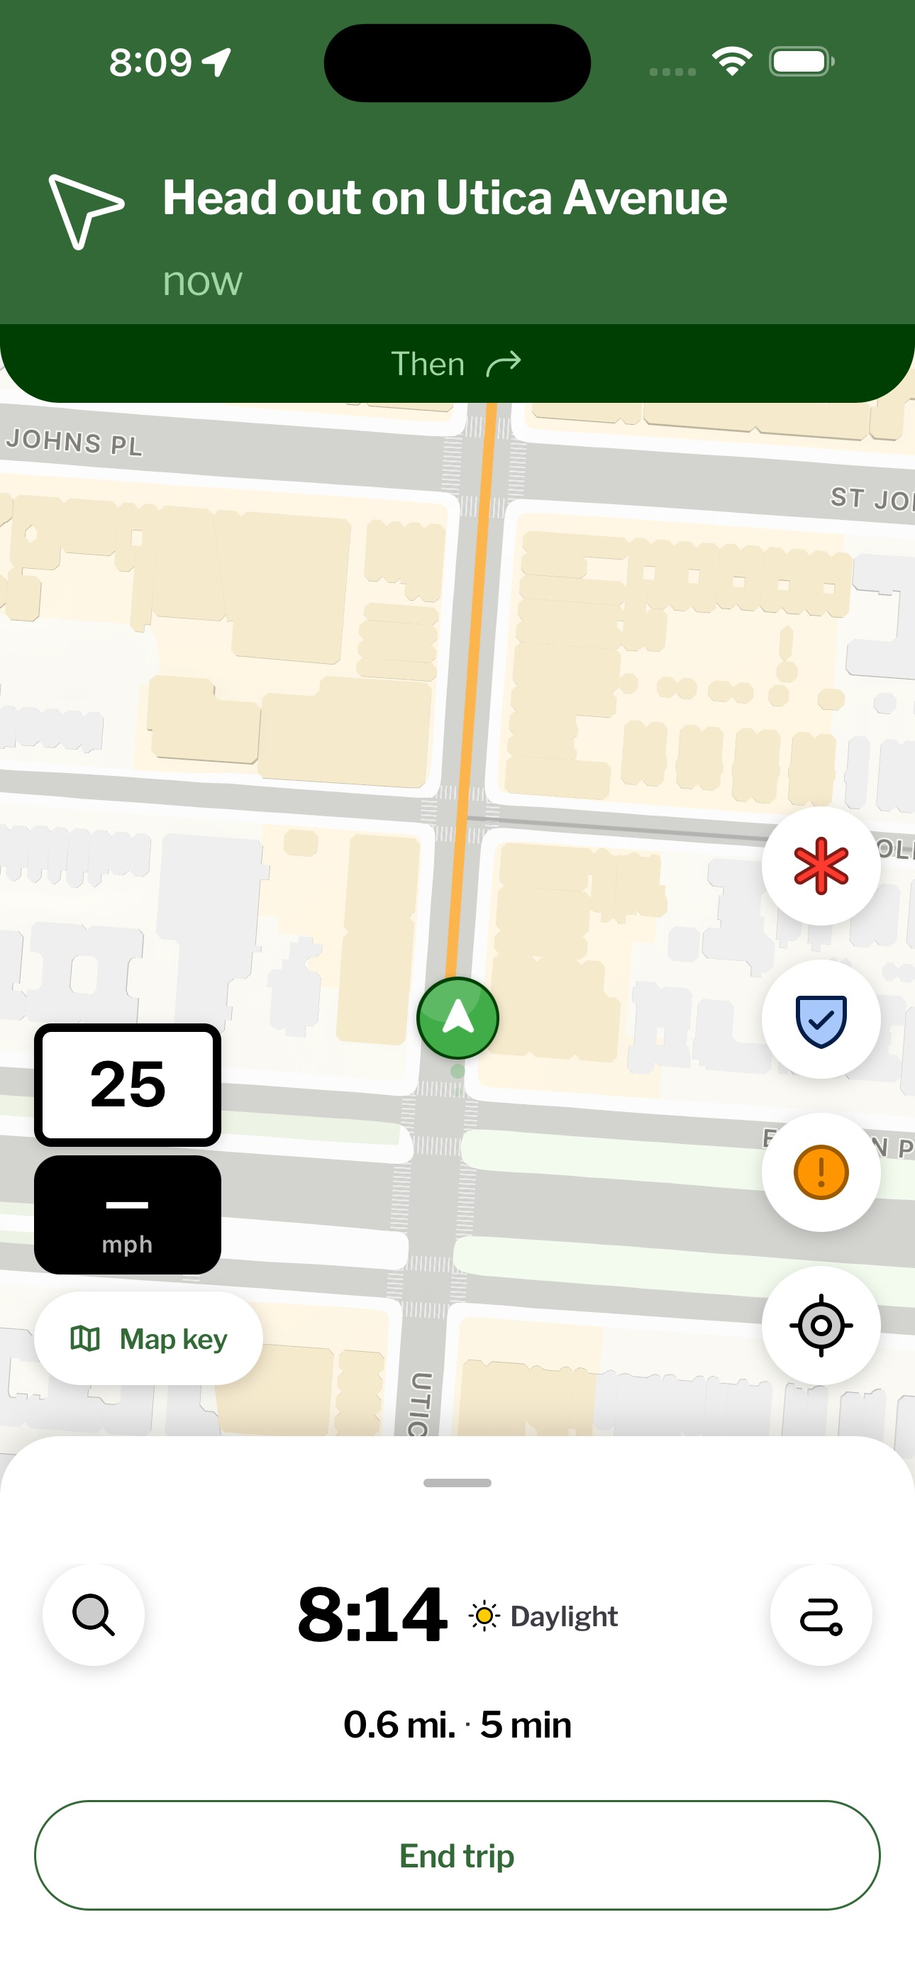
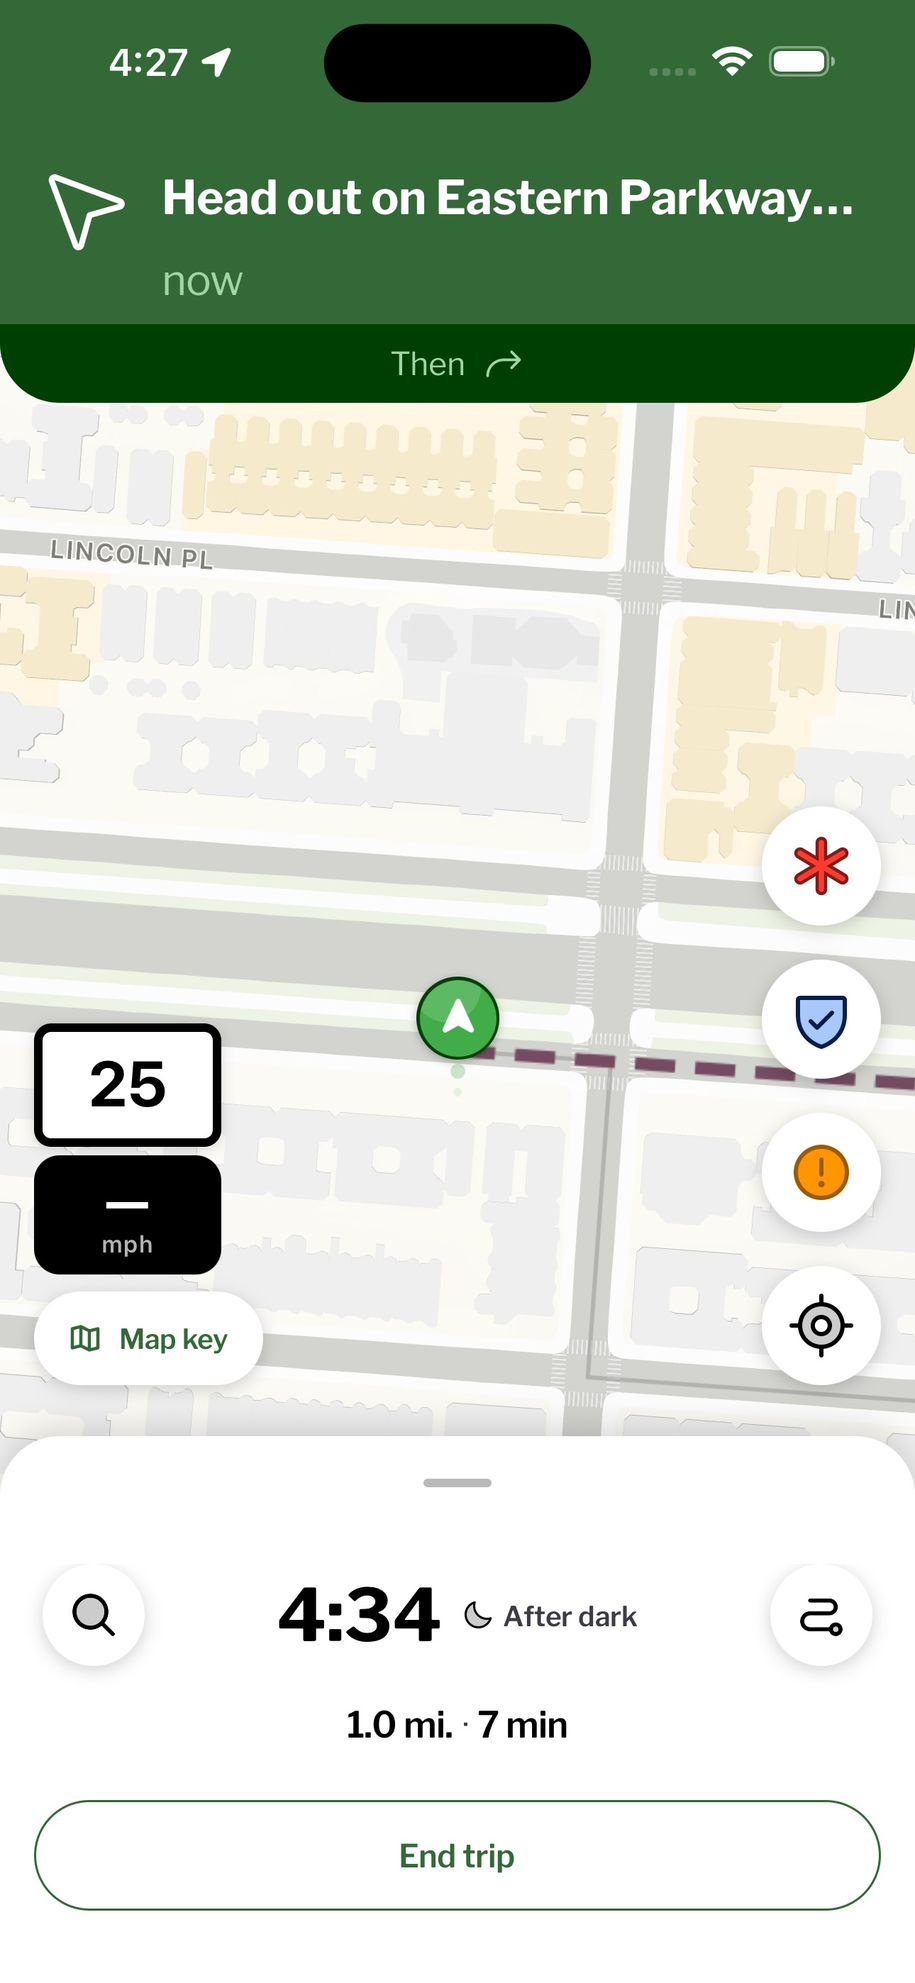
Lead the Weeksville comparison with dusk and restore the fullscreen cursor

diff --git a/src/components/fresh-greens/captured-route-comparison.tsx b/src/components/fresh-greens/captured-route-comparison.tsx
@@ -1,29 +1,35 @@
 "use client";
 
 import Image from "next/image";
-import { useState } from "react";
 import styles from "./captured-route-comparison.module.css";
 
 const captureDirectory = "/projects/fresh-greens/route-comparison";
 
 // Control centers are measured on the native 430 × 932 point screen.
-const routes = [
-  { via: "Utica Avenue", details: "Five minutes, 0.6 miles. Arrive at 8:12 AM, daylight. One road condition.", arrow: [142, 645], closeY: 579 },
-  { via: "Saint Johns Place", details: "Five minutes, 0.6 miles. Arrive at 8:13 AM, daylight. All clear.", arrow: [46, 684], closeY: 617 },
+export const routes = [
+  { via: "Rochester Avenue", arrival: "4:34 PM", light: "After dark", minutes: 7, arrow: [142, 646], closeY: 579 },
+  { via: "Rochester Avenue", arrival: "4:33 PM", light: "Dusk", minutes: 6, arrow: [46, 646], closeY: 579 },
 ] as const;
 
-type Props = { onBrowse: () => void; onSearch: () => void };
+export type RouteIndex = 0 | 1;
 
-export function CapturedRouteComparison({ onBrowse, onSearch }: Props) {
-  const [index, setIndex] = useState<0 | 1>(0);
-  const [driving, setDriving] = useState(false);
+type Props = {
+  index: RouteIndex;
+  driving: boolean;
+  onSelect: (index: RouteIndex) => void;
+  onToggleTrip: () => void;
+  onBrowse: () => void;
+  onSearch: () => void;
+};
+
+export function CapturedRouteComparison({ index, driving, onSelect, onToggleTrip, onBrowse, onSearch }: Props) {
   const route = routes[index];
 
   return (
     <div className={styles.phone} role="group" aria-label="Two routes captured in Fresh Greens on iPhone">
-      {routes.map((capture, position) => (
+      {routes.map((_, position) => (
         <Image
-          key={capture.via}
+          key={position}
           className={styles.capture}
           aria-hidden={position !== index}
           src={captureDirectory + "/ios-" + (driving ? "drive-" : "route-") + (position + 1) + ".jpg"}
@@ -31,7 +37,7 @@ export function CapturedRouteComparison({ onBrowse, onSearch }: Props) {
           height={2796}
           unoptimized
           loading="eager"
-          alt={position === index ? (driving ? "Fresh Greens giving the first turn toward Weeksville Heritage Center." : "Fresh Greens showing the selected route to Weeksville Heritage Center on its iPhone map.") : ""}
+          alt={position === index ? (driving ? "Fresh Greens giving the first turn toward Weeksville Heritage Center." : "The blue location dot marks the start on Eastern Parkway Service Road. The checkered pin marks Weeksville Heritage Center.") : ""}
         />
       ))}
       {!driving && <>
@@ -40,20 +46,20 @@ export function CapturedRouteComparison({ onBrowse, onSearch }: Props) {
           aria-label={index === 0 ? "Next route" : "Previous route"}
           className={styles.arrow}
           style={{ left: (100 * route.arrow[0] / 430) + "%", top: (100 * route.arrow[1] / 932) + "%" }}
-          onClick={() => setIndex(index === 0 ? 1 : 0)}
+          onClick={() => onSelect(index === 0 ? 1 : 0)}
           onKeyDown={event => {
             if (event.key !== "ArrowLeft" && event.key !== "ArrowRight") return;
             event.preventDefault();
-            setIndex(event.key === "ArrowLeft" ? 0 : 1);
+            onSelect(event.key === "ArrowLeft" ? 0 : 1);
           }}
         />
         <button type="button" className={styles.search} aria-label="Search destinations" onClick={onSearch} />
         <button type="button" className={styles.arrow} style={{ left: "89.2%", top: (100 * route.closeY / 932) + "%" }} aria-label="Close route and browse recommendations" onClick={onBrowse} />
       </>}
-      <button type="button" className={styles.trip} data-driving={driving} onClick={() => setDriving(!driving)}
+      <button type="button" className={styles.trip} data-driving={driving} onClick={onToggleTrip}
         aria-label={driving ? "End trip" : "Go, start route via " + route.via} />
       <span className="sr-only" role="status" aria-atomic="true">
-        {driving ? "Driving to Weeksville via " + route.via + ". Head out on Utica Avenue." : "Route " + (index + 1) + " of 2. Via " + route.via + ". " + route.details}
+        {driving ? "Driving to Weeksville via " + route.via + ". Head out on Eastern Parkway Service Road." : "Route " + (index + 1) + " of 2. Via " + route.via + ". " + route.minutes + " minutes, 1 mile. One reported road condition. Arrive at " + route.arrival + ", " + route.light + "."}
       </span>
     </div>
   );

diff --git a/src/components/fresh-greens/early-product-walkthrough.tsx b/src/components/fresh-greens/early-product-walkthrough.tsx
@@ -2,17 +2,25 @@
 
 import { useRef, useState } from "react";
 import { flushSync } from "react-dom";
-import { CapturedRouteComparison } from "./captured-route-comparison";
+import { CapturedRouteComparison, routes, type RouteIndex } from "./captured-route-comparison";
 import { CapturedHomeSheet } from "./captured-home-sheet";
 import styles from "./early-product-walkthrough.module.css";
 
 export function EarlyProductWalkthrough() {
   const [expanded, setExpanded] = useState(false);
   const [screen, setScreen] = useState<"routes" | "browse" | "search">("routes");
+  const [routeIndex, setRouteIndex] = useState<RouteIndex>(1);
+  const [driving, setDriving] = useState(false);
+  function selectRoute(index: RouteIndex) {
+    setRouteIndex(index);
+    setDriving(false);
+  }
+
   const phone = useRef<HTMLDivElement>(null);
   const browsing = screen !== "routes";
   function switchScreen(next: typeof screen) {
     setScreen(next);
+    setDriving(false);
     if (next === "search") return;
     requestAnimationFrame(() => phone.current?.querySelector<HTMLButtonElement>("button")?.focus({ preventScroll: true }));
   }
@@ -48,7 +56,17 @@ export function EarlyProductWalkthrough() {
       <header className={styles.header}>
         <p className={styles.kicker}>From the iOS app</p>
         <h3 id="fg-route-screen-title">{browsing ? "Browse recommendations" : "Compare two routes to Weeksville"}</h3>
-        <p>{browsing ? "Open the home sheet and choose a category to see the app’s sample places. Search for Weeksville to compare routes." : "Use the arrows to compare streets and road conditions. Select Go to see the first turn on your chosen route."}</p>
+        <p>{browsing ? "Open the home sheet and choose a category to see the app’s sample places. Search for Weeksville to compare routes." : "Leave Crown Heights at 4:27 PM. Both routes reach Weeksville via Rochester Avenue. Compare the light on arrival, then select Go to see the first turn."}</p>
+        {!browsing && <div className={styles.choices} role="group" aria-label="Choose a route to Weeksville">
+          {([1, 0] as const).map(index => (
+            <button key={index} type="button" aria-pressed={routeIndex === index}
+              onClick={() => selectRoute(index)}>
+              <span>{routes[index].light}</span>
+              <span>{routes[index].arrival}</span>
+              <small>Route {index + 1} · {routes[index].minutes} min</small>
+            </button>
+          ))}
+        </div>}
         <div className={styles.actions}>
           <button type="button" ref={expandButton} className={styles.control} onClick={expand} aria-haspopup="dialog">{browsing ? "Enlarge home sheet" : "Enlarge route comparison"}</button>
           {browseControl()}
@@ -62,7 +80,7 @@ export function EarlyProductWalkthrough() {
           <div ref={phone} className={styles.capture}>
             {browsing
               ? <CapturedHomeSheet initialSearch={screen === "search"} onCompareWeeksville={() => switchScreen("routes")} />
-              : <CapturedRouteComparison onBrowse={() => switchScreen("browse")} onSearch={() => switchScreen("search")} />}
+              : <CapturedRouteComparison index={routeIndex} driving={driving} onSelect={selectRoute} onToggleTrip={() => setDriving(value => !value)} onBrowse={() => switchScreen("browse")} onSearch={() => switchScreen("search")} />}
           </div>
         </dialog>
       </div>

diff --git a/src/components/fresh-greens/__tests__/captured-route-comparison.test.tsx b/src/components/fresh-greens/__tests__/captured-route-comparison.test.tsx
@@ -1,31 +1,47 @@
+import { join } from "node:path";
+import sharp from "sharp";
 import { render, screen } from "@testing-library/react";
 import userEvent from "@testing-library/user-event";
 import { describe, expect, it } from "vitest";
-import { CapturedRouteComparison } from "../captured-route-comparison";
+import { EarlyProductWalkthrough } from "../early-product-walkthrough";
 
 describe("Captured iOS route comparison", () => {
+  it.each([1, 2])("keeps the blue location dot visible on route %i at inline phone size", async number => {
+    const jpg = join(process.cwd(), "public/projects/fresh-greens/route-comparison", "ios-route-" + number + ".jpg");
+    const { data, info } = await sharp(jpg).resize({ width: 280 }).removeAlpha().raw().toBuffer({ resolveWithObject: true });
+    let blueMapPixels = 0;
+    // Inspect the open map between the search bar and the bottom sheet.
+    for (let y = 100; y < 300; y++) {
+      for (let x = 0; x < info.width; x++) {
+        const i = (y * info.width + x) * info.channels;
+        if (data[i] < 55 && data[i + 1] > 80 && data[i + 1] < 165 && data[i + 2] > 210) blueMapPixels++;
+      }
+    }
+    expect(blueMapPixels).toBeGreaterThan(35);
+  });
+
   it("switches the real capture and announces the corresponding route", async () => {
     const user = userEvent.setup();
-    render(<CapturedRouteComparison onBrowse={() => {}} onSearch={() => {}} />);
+    render(<EarlyProductWalkthrough />);
     const first = screen.getByRole("img");
     const firstSource = first.getAttribute("src");
-    expect(screen.getByRole("status")).toHaveTextContent(/Route 1 of 2. Via Utica Avenue.*8:12 AM, daylight/);
-    await user.click(screen.getByRole("button", { name: "Next route" }));
-    expect(screen.getByRole("img").getAttribute("src")).not.toEqual(firstSource);
-    expect(screen.getByRole("status")).toHaveTextContent(/Route 2 of 2. Via Saint Johns Place.*8:13 AM, daylight/);
+    expect(screen.getByRole("status")).toHaveTextContent(/Route 2 of 2. Via Rochester Avenue.*4:33 PM, Dusk/);
     await user.click(screen.getByRole("button", { name: "Previous route" }));
+    expect(screen.getByRole("img").getAttribute("src")).not.toEqual(firstSource);
+    expect(screen.getByRole("status")).toHaveTextContent(/Route 1 of 2. Via Rochester Avenue.*4:34 PM, After dark/);
+    await user.click(screen.getByRole("button", { name: "Next route" }));
     expect(screen.getByRole("img")).toHaveAttribute("src", firstSource);
   });
 
   it("keeps keyboard focus on the route control when the active arrow moves", async () => {
     const user = userEvent.setup();
-    render(<CapturedRouteComparison onBrowse={() => {}} onSearch={() => {}} />);
-    await user.tab();
-    await user.keyboard("{ArrowRight}");
-    expect(screen.getByRole("button", { name: "Previous route" })).toHaveFocus();
+    render(<EarlyProductWalkthrough />);
+    screen.getByRole("button", { name: "Previous route" }).focus();
     await user.keyboard("{ArrowLeft}");
     expect(screen.getByRole("button", { name: "Next route" })).toHaveFocus();
+    await user.keyboard("{ArrowRight}");
+    expect(screen.getByRole("button", { name: "Previous route" })).toHaveFocus();
     await user.keyboard("{Enter}");
-    expect(screen.getByRole("status")).toHaveTextContent("Route 2 of 2");
+    expect(screen.getByRole("status")).toHaveTextContent("Route 1 of 2");
   });
 });

diff --git a/src/components/fresh-greens/__tests__/early-product-walkthrough.test.tsx b/src/components/fresh-greens/__tests__/early-product-walkthrough.test.tsx
@@ -13,12 +13,17 @@ describe("Fresh Greens route comparison", () => {
     const { container } = render(<EarlyProductWalkthrough />);
 
     expect(screen.getByRole("heading", { name: "Compare two routes to Weeksville" })).toBeVisible();
-    expect(screen.getByRole("img").getAttribute("src")).toMatch(/\/route-comparison\/ios-route-1\.jpg$/);
-    await user.click(screen.getByRole("button", { name: "Next route" }));
     expect(screen.getByRole("img").getAttribute("src")).toMatch(/\/route-comparison\/ios-route-2\.jpg$/);
-    expect(screen.getByRole("status")).toHaveTextContent("Via Saint Johns Place");
     await user.click(screen.getByRole("button", { name: "Previous route" }));
-    expect(screen.getByRole("status")).toHaveTextContent("Via Utica Avenue");
+    expect(screen.getByRole("img").getAttribute("src")).toMatch(/\/route-comparison\/ios-route-1\.jpg$/);
+    expect(screen.getByRole("status")).toHaveTextContent("4:34 PM, After dark");
+    await user.click(screen.getByRole("button", { name: "Next route" }));
+    expect(screen.getByRole("status")).toHaveTextContent("4:33 PM, Dusk");
+
+    expect(screen.getByRole("button", { name: /^Dusk/ })).toHaveAttribute("aria-pressed", "true");
+    await user.click(screen.getByRole("button", { name: /^After dark/ }));
+    expect(screen.getByRole("status")).toHaveTextContent(/4:34 PM, After dark/);
+    expect(screen.getByRole("button", { name: /^After dark/ })).toHaveAttribute("aria-pressed", "true");
 
     expect(container.querySelector("iframe")).toBeNull();
     expect(screen.queryByRole("button", { name: /simulator|open the ios app/i })).not.toBeInTheDocument();
@@ -28,12 +33,12 @@ describe("Fresh Greens route comparison", () => {
   it("opens the selected route’s first turn and returns to the same route", async () => {
     const user = userEvent.setup();
     render(<EarlyProductWalkthrough />);
-    for (const [index, via] of ["Utica Avenue", "Saint Johns Place"].entries()) {
-      if (index === 1) await user.click(screen.getByRole("button", { name: "Next route" }));
-      await user.click(screen.getByRole("button", { name: "Go, start route via " + via }));
+    for (const index of [1, 0]) {
+      if (index === 0) await user.click(screen.getByRole("button", { name: "Previous route" }));
+      await user.click(screen.getByRole("button", { name: "Go, start route via Rochester Avenue" }));
       expect(screen.getByRole("img").getAttribute("src")).toContain("ios-drive-" + (index + 1));
       await user.click(screen.getByRole("button", { name: "End trip" }));
-      expect(screen.getByRole("status")).toHaveTextContent(via);
+      expect(screen.getByRole("status")).toHaveTextContent("Route " + (index + 1));
       expect(screen.getByRole("img").getAttribute("src")).toContain("ios-route-" + (index + 1));
     }
   });
@@ -49,6 +54,6 @@ describe("Fresh Greens route comparison", () => {
     await user.click(screen.getByRole("button", { name: /Where are you headed/ }));
     await user.type(screen.getByRole("searchbox"), "Weeks");
     await user.click(screen.getByRole("button", { name: /Weeksville Heritage Center/ }));
-    expect(screen.getByRole("button", { name: "Next route" })).toBeVisible();
+    expect(screen.getByRole("button", { name: "Previous route" })).toBeVisible();
   });
 });

diff --git a/src/components/fresh-greens/early-product-walkthrough.module.css b/src/components/fresh-greens/early-product-walkthrough.module.css
@@ -39,6 +39,32 @@
   text-align: start;
 }
 
+.choices {
+  display: grid;
+  margin-block: 1rem;
+  border-top: 1px solid #aab0a5;
+}
+.choices button {
+  display: grid;
+  grid-template-columns: minmax(0, 1fr) auto;
+  gap: .15em .5em;
+  text-align: start;
+  padding: .65rem .8rem;
+  border: 0;
+  border-bottom: 1px solid #aab0a5;
+  border-inline-start: 4px solid transparent;
+  border-radius: 0;
+  color: #22392d;
+  background: #faf8f1;
+  cursor: pointer;
+  font: 650 1rem/1.35 var(--font-family-sans, system-ui), sans-serif;
+}
+.choices button[aria-pressed="true"] { background: #e2eadb; border-inline-start-color: #345f43; }
+.choices button:hover { background: #e8eee3; }
+.choices button:focus-visible { outline: 2px solid #24569f; outline-offset: -2px; }
+.choices small { grid-column: 1 / -1; font-size: .85rem; font-weight: 400; }
+.choices button > span:nth-child(2) { font-weight: 500; font-variant-numeric: tabular-nums; }
+
 .stage {
   grid-area: screen;
   display: grid;
@@ -67,13 +93,14 @@
 }
 
 .viewer[open]:modal {
-  --phone-width: min(100%, 25rem, max(12rem, calc((100dvh - 9rem) * .46137)));
+  --phone-width: min(100%, 25rem);
   position: fixed;
   inset: 0;
   width: 100%;
   height: 100%;
   max-height: 100dvh;
-  align-content: safe center;
+  align-content: start;
+  grid-auto-rows: max-content;
   gap: .7rem;
   padding: .8rem;
   overflow: auto;
@@ -106,7 +133,9 @@
 }
 .actions { display: flex; flex-wrap: wrap; gap: .5rem; }
 .header .actions { margin-top: 1rem; }
-.viewer .actions { justify-content: center; }
+.viewer .actions { justify-content: center; position: sticky; top: 0; z-index: 1; padding: .25rem; background: #203e32; }
+.header { overflow-wrap: anywhere; }
+.actions > button { max-width: 100%; white-space: normal; }
 .control:hover { background: #e5eadf; }
 .control:focus-visible { outline: 2px solid #24569f; outline-offset: 3px; }
 .viewer .control:focus-visible { outline-color: #c3e4a8; }

diff --git a/src/app/__tests__/accessibility-preferences.browser.test.ts b/src/app/__tests__/accessibility-preferences.browser.test.ts
@@ -205,6 +205,23 @@ async function emulateMediaFeature(page: Page, name: string, value: string) {
 }
 
 describe("persistent chrome accessibility preferences", () => {
+  it("shows a native pointer inside a fullscreen dialog and restores the desktop cursor on close", async () => {
+    const page = await browser.newPage({ reducedMotion: "no-preference" });
+    try {
+      await page.setContent('<html class="dot-cursor-ready"><div class="dot-cursor"></div><dialog><img alt="Map"><button>Return</button></dialog></html>');
+      await page.addStyleTag({ content: productionReaderStyles });
+      const dialog = page.locator("dialog");
+      await dialog.evaluate(el => (el as HTMLDialogElement).showModal());
+      expect(await dialog.locator("img").evaluate(el => getComputedStyle(el).cursor)).toBe("auto");
+      expect(await dialog.locator("button").evaluate(el => getComputedStyle(el).cursor)).toBe("pointer");
+      expect(await page.locator(".dot-cursor").evaluate(el => getComputedStyle(el).visibility)).toBe("hidden");
+      await dialog.evaluate(el => (el as HTMLDialogElement).close());
+      expect(await page.locator(".dot-cursor").evaluate(el => getComputedStyle(el).visibility)).toBe("visible");
+    } finally {
+      await page.close();
+    }
+  });
+
   it("keeps the inert desktop stage transparent to the existing desktop layout", async () => {
     const page = await browser.newPage();
     await page.setContent(documentWithPreferences());

diff --git a/src/app/work/fresh-greens/page.tsx b/src/app/work/fresh-greens/page.tsx
@@ -170,8 +170,10 @@ export default async function FreshGreensPage() {
                   <a href={freshGreensProof.href}>See the route screen</a>.
                 </p>
               </div>
-              <GreenBookPalette />
-              <OnboardingGallery />
+              <ProjectEvidenceDisclosure summary="See the first Google Maps design and the departure reminder">
+                <PivotJourney />
+                <DepartureReminderEvidence />
+              </ProjectEvidenceDisclosure>
               <div className="project-section-body">
                 <p>
                   Driving from Chicago to rural Georgia, six minutes saved might
@@ -187,10 +189,8 @@ export default async function FreshGreensPage() {
               <ProjectEvidenceDisclosure summary="See arrival light on the original app screens">
                 <FreshGreensCaptureViewer />
               </ProjectEvidenceDisclosure>
-              <ProjectEvidenceDisclosure summary="See the first Google Maps design and the departure reminder">
-                <PivotJourney />
-                <DepartureReminderEvidence />
-              </ProjectEvidenceDisclosure>
+              <GreenBookPalette />
+              <OnboardingGallery />
             </section>
           </ProjectChapter>
 

diff --git a/src/app/work/__tests__/mobile-evidence-pacing.test.ts b/src/app/work/__tests__/mobile-evidence-pacing.test.ts
@@ -14,7 +14,7 @@ describe("case-study mobile evidence pacing", () => {
     const tiktok = read("src/app/work/tiktok/page.tsx");
 
     expect(fresh).toMatch(
-      /<EarlyProductWalkthrough \/>[\s\S]*?<ProjectEvidenceDisclosure summary="See the revised labels on three sample routes">[\s\S]*?<RouteComparisonEvidence \/>[\s\S]*?<\/ProjectEvidenceDisclosure>[\s\S]*?<ProjectEvidenceDisclosure summary="See the first Google Maps design and the departure reminder">[\s\S]*?<PivotJourney \/>[\s\S]*?<DepartureReminderEvidence \/>[\s\S]*?<\/ProjectEvidenceDisclosure>/,
+      /<EarlyProductWalkthrough \/>[\s\S]*?<ProjectEvidenceDisclosure summary="See the first Google Maps design and the departure reminder">[\s\S]*?<PivotJourney \/>[\s\S]*?<DepartureReminderEvidence \/>[\s\S]*?<\/ProjectEvidenceDisclosure>[\s\S]*?<ProjectEvidenceDisclosure summary="See the revised labels on three sample routes">[\s\S]*?<RouteComparisonEvidence \/>[\s\S]*?<\/ProjectEvidenceDisclosure>[\s\S]*?<OnboardingGallery \/>/,
     );
     expect(fresh).toMatch(
       /<ProjectEvidenceDisclosure summary="See how the data reaches route scoring">[\s\S]*?<ArchitectureDiagram \/>[\s\S]*?<\/ProjectEvidenceDisclosure>/,

diff --git a/src/app/styles/base.css b/src/app/styles/base.css
@@ -260,6 +260,28 @@ a {
     cursor: none;
   }
 
+  /* A modal is painted above the document, including its custom cursor. */
+  html.dot-cursor-ready:has(dialog:modal) .dot-cursor {
+    visibility: hidden;
+  }
+
+  html.dot-cursor-ready dialog:modal,
+  html.dot-cursor-ready dialog:modal::backdrop {
+    cursor: auto;
+  }
+
+  html.dot-cursor-ready dialog:modal :is(a[href], button, [role="button"], summary, label, select) {
+    cursor: pointer;
+  }
+
+  html.dot-cursor-ready dialog:modal :is(input, textarea) {
+    cursor: auto;
+  }
+
+  html.dot-cursor-ready dialog:modal :disabled {
+    cursor: default;
+  }
+
   /* Captured drags use the browser cursor so feedback never waits on JS paint. */
   html.dot-cursor-ready:has(.myles97-window[data-dragging="true"]),
   html.dot-cursor-ready:has(.myles97-window[data-dragging="true"]) * {

diff --git a/src/app/work/__tests__/dedicated-route-visibility.test.tsx b/src/app/work/__tests__/dedicated-route-visibility.test.tsx
@@ -164,7 +164,7 @@ describe("dedicated project route visibility", () => {
     expect(comparison).toBeInTheDocument();
     expect(comparison?.closest("details")).toBeNull();
     expect(container.querySelectorAll("#fg-app-walkthrough")).toHaveLength(1);
-    expect(within(comparison!).getByRole("button", { name: "Next route" })).toBeVisible();
+    expect(within(comparison!).getByRole("button", { name: "Previous route" })).toBeVisible();
     expect(within(comparison!).queryByRole("button", { name: /simulator|open the ios app/i })).toBeNull();
     expect(comparison?.querySelector("iframe")).toBeNull();
   });
